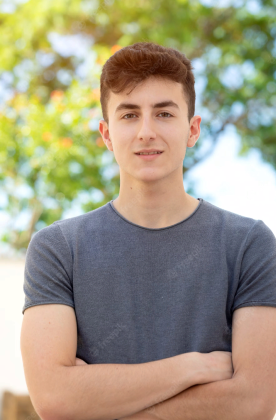
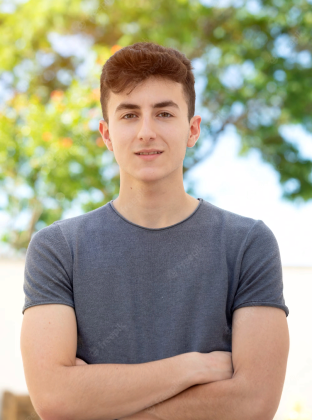
all fix done

diff --git a/css/style.css b/css/style.css
@@ -65,6 +65,7 @@ input:-webkit-autofill:focus {
 picture img {
   display: block;
   width: 100%;
+  height: 100%;
   position: relative;
   z-index: 2;
 }
@@ -1198,7 +1199,7 @@ main {
   right: -344px;
   z-index: 1;
   width: 1100px;
-  height: auto;
+  height: 989px;
 }
 
 .offer__image {
@@ -3276,7 +3277,7 @@ main {
   right: -352px;
   z-index: 1;
   width: 1095px;
-  height: auto;
+  height: 987px;
 }
 
 .offer-3 .offer__bg {
@@ -3285,7 +3286,7 @@ main {
   right: -365px;
   z-index: 1;
   width: 1140px;
-  height: auto;
+  height: 1013px;
 }
 
 /* Popup */
@@ -4659,18 +4660,21 @@ main {
     top: 4%;
     right: -72%;
     width: 754px;
+    height: auto;
   }
 
   .offer-2 .offer__bg {
     top: 4%;
     right: -72%;
     width: 754px;
+    height: auto;
   }
 
   .offer-3 .offer__bg {
     top: 4%;
     right: -72%;
     width: 754px;
+    height: auto;
   }
 
   .offer__image {
@@ -4681,12 +4685,14 @@ main {
 
   .offer-2 .offer__image {
     width: 450px;
+    height: auto;
     top: 65%;
     left: 60%;
   }
 
   .offer-3 .offer__image {
     width: 291px;
+    height: auto;
     top: 49%;
   }
 }
